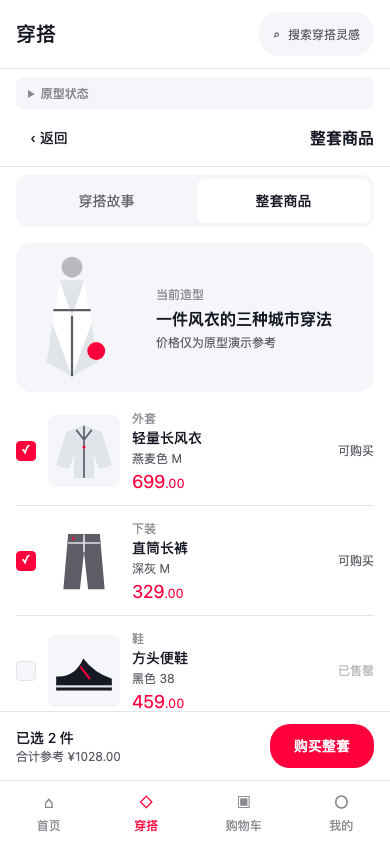
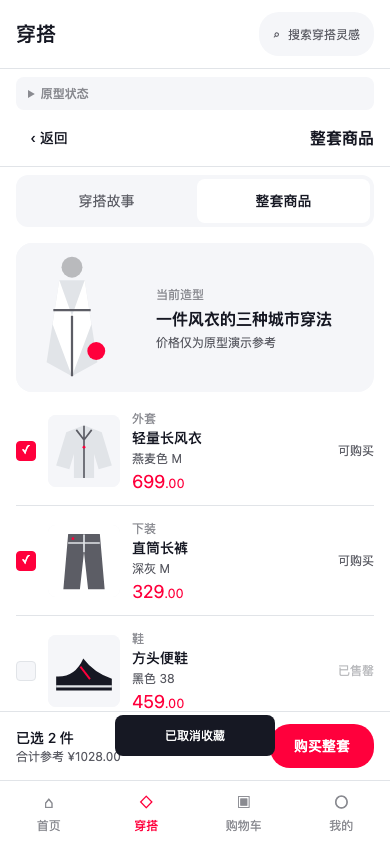
fix: complete outfit interaction coverage

Changed region(s): [[0.2769, 0.8318, 0.7077, 0.8934]]

diff --git a/work/editorial-outfit-tab/styles.css b/work/editorial-outfit-tab/styles.css
@@ -129,13 +129,14 @@ button { appearance: none; cursor: pointer; }
 .feed-screen { margin-bottom: var(--gap-32); }
 .feed { columns: 2; column-gap: var(--gap-4); padding: var(--gap-8); }
 .story-card {
+  position: relative;
   break-inside: avoid;
   margin-bottom: var(--gap-4);
   overflow: hidden;
   background-color: var(--surface-primary);
   border-radius: var(--radius-card);
 }
-.story-card__open { display: block; width: 100%; padding: 0; background-color: transparent; border: none; }
+.story-card__open { display: block; width: 100%; color: inherit; background-color: transparent; text-decoration: none; }
 .story-card__image, .feature-card__image, .image-fallback, .skeleton__image {
   display: block;
   width: 100%;
@@ -161,7 +162,8 @@ button { appearance: none; cursor: pointer; }
   -webkit-box-orient: vertical;
   -webkit-line-clamp: 2;
 }
-.story-card__meta { display: flex; gap: var(--gap-4); align-items: center; justify-content: space-between; color: var(--text-tertiary); font-size: var(--font-caption); line-height: var(--line-caption); }
+.story-card__meta { display: flex; gap: var(--gap-4); min-height: 32px; padding-right: var(--gap-32); align-items: center; color: var(--text-tertiary); font-size: var(--font-caption); line-height: var(--line-caption); }
+.story-card__save { position: absolute; right: var(--gap-8); bottom: var(--gap-8); z-index: 1; }
 .save-button {
   min-height: 32px;
   padding: var(--gap-4) var(--gap-8);

diff --git a/work/editorial-outfit-tab/README.md b/work/editorial-outfit-tab/README.md
@@ -66,7 +66,7 @@ node --test qa/editorial-outfit-state.test.mjs qa/editorial-outfit-static.test.m
 # PASS：31/31
 
 CODEX_WORKSPACE_NODE_MODULES="${CODEX_WORKSPACE_NODE_MODULES:-$HOME/.cache/codex-runtimes/codex-primary-runtime/dependencies/node/node_modules}" node qa/editorial-outfit-browser.mjs
-# PASS：390x844 与 320x720；输出 4 张截图
+# PASS：390x844 与 320x720；标题区域整卡打开、频道/feed 收藏/detail 收藏焦点恢复、详情 story/products 加载与错误重试均通过；输出 4 张截图
 
 node "${CODEX_HOME:-$HOME/.codex}/skills/ecommerce-design-language/scripts/validate-assets.js" work/editorial-outfit-tab
 # PASS：Asset validation passed（上游正式资产仍报告 34 条既有 paired-html warning）
